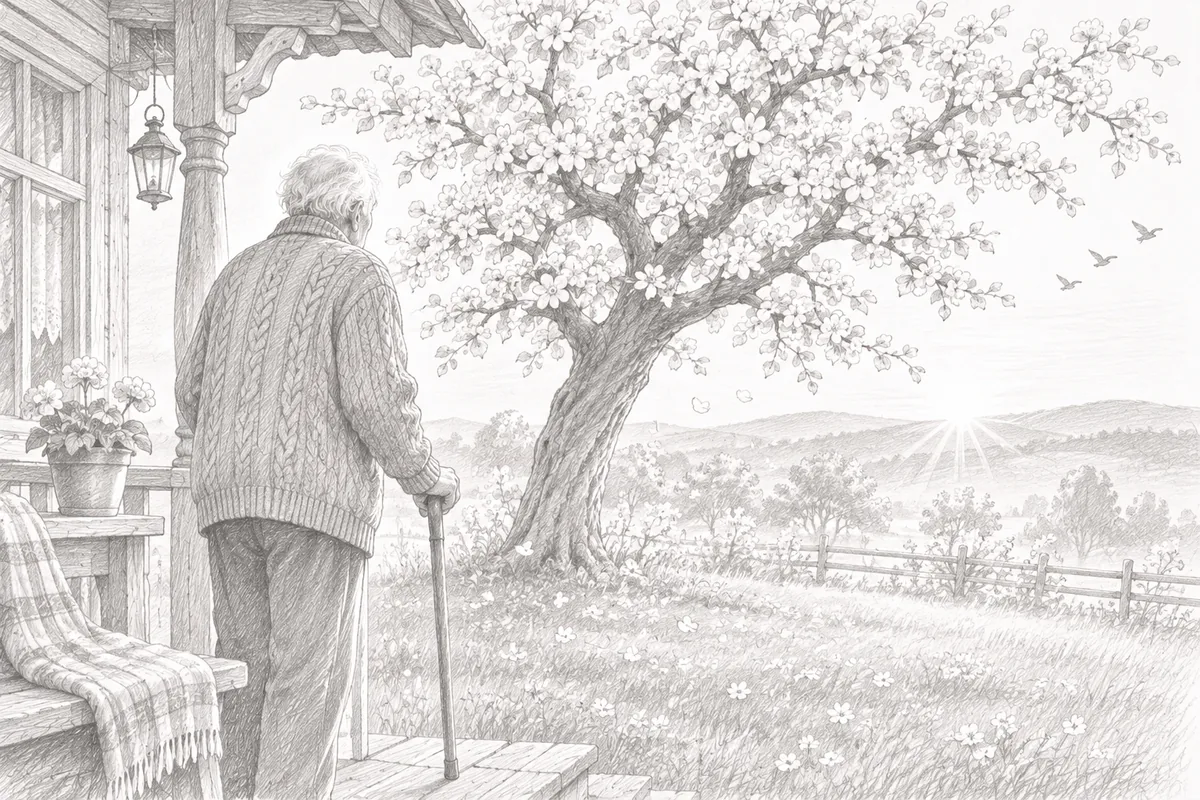
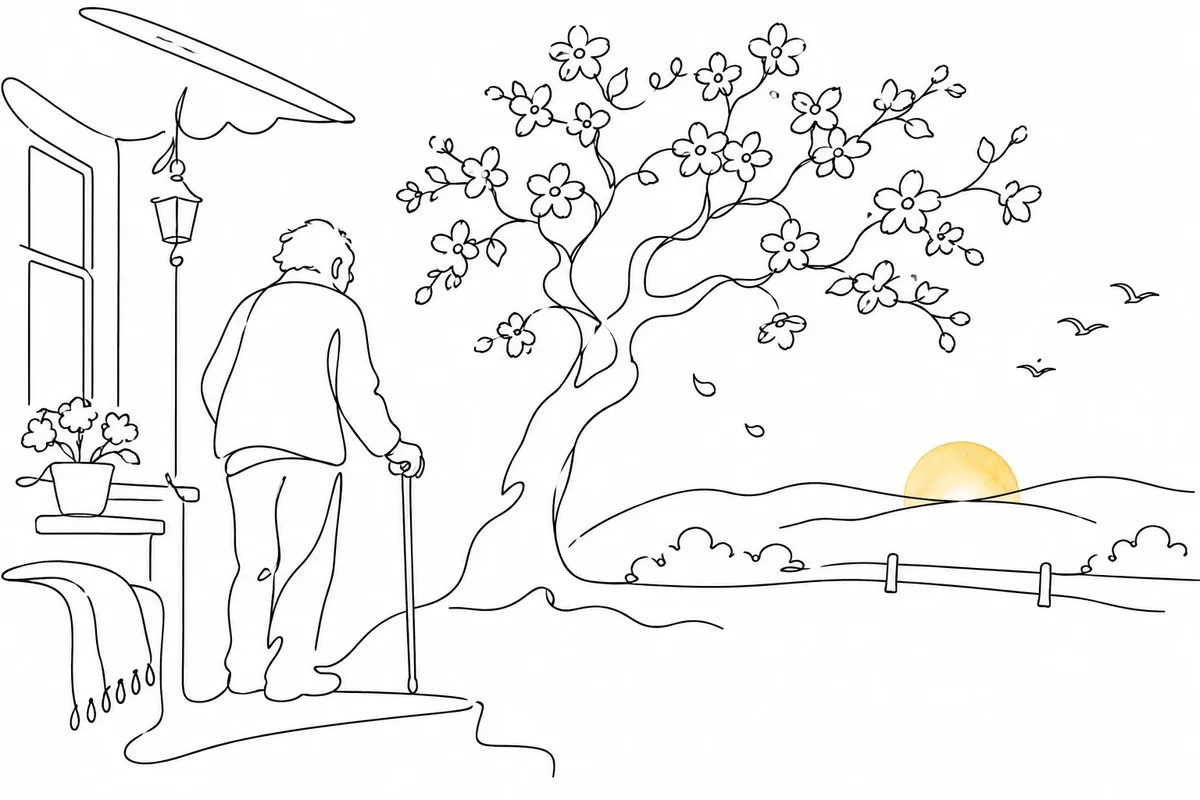
Жизнь заново: обложки 80-х (линер) и 90–100 (одна линия)
Claude-Session: https://claude.ai/code/session_01NeS9BS7RgT83x3ugt3iaDp

diff --git a/zhizn-zanovo/js/data/art.js b/zhizn-zanovo/js/data/art.js
@@ -10,7 +10,7 @@
     acrylic: { stage: 'art/acrylic/stage.webp' },     // до 60 — акриловые краски
     watercolor: { stage: 'art/watercolor/stage.webp' },  // до 70 — пастельная акварель
     graphite: { stage: 'art/graphite/stage.webp' },  // 70–79 — простой карандаш
-    liner: { stage: 'art/liner/stage.webp' },        // 80–89 — тонкий линер, только контуры (пока временно — карандашная)
-    oneline: { stage: 'art/oneline/stage.webp' }     // 90–100 — одна непрерывная линия (пока временно — карандашная)
+    liner: { stage: 'art/liner/stage.webp' },        // 80–89 — тонкий линер, только контуры
+    oneline: { stage: 'art/oneline/stage.webp' }     // 90–100 — одна непрерывная линия
   };
 })();
